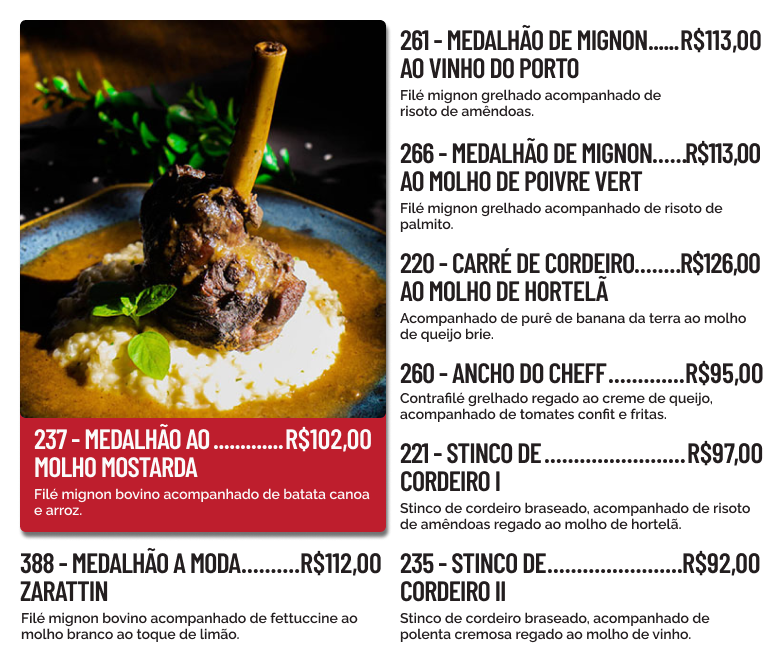
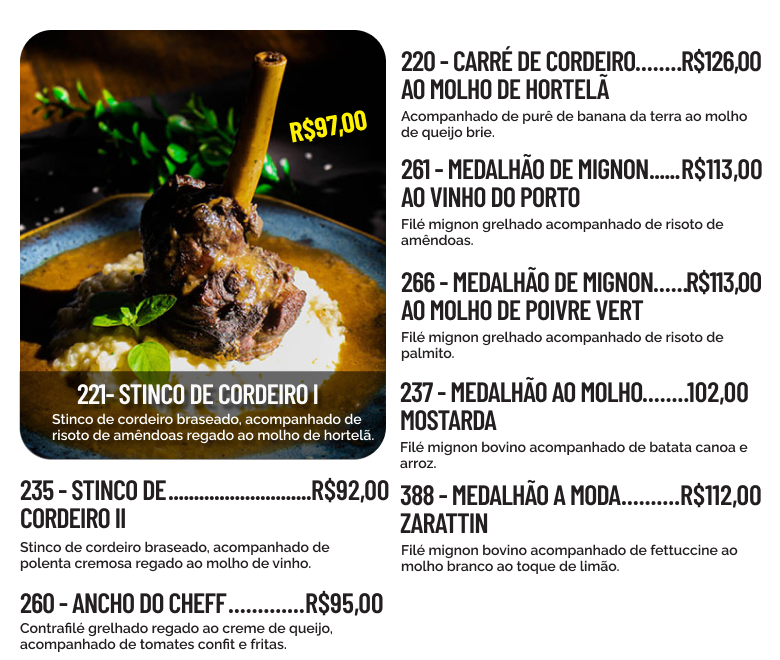
mudanças no cardapio

diff --git a/index.html b/index.html
@@ -202,7 +202,7 @@
                                 </div>
                             </div>
 
-                           <!--  <div class="card__container swiper-slide">
+                            <!--  <div class="card__container swiper-slide">
                                 <div class="card__image">
                                     <img src="assets/img/carousel/festival_camarao.jpg" alt="image" class="card__img"
                                         loading="lazy">
@@ -240,39 +240,52 @@
                 <img class="cardapio_img cardapio_img-2" data-aos="fade-left" data-aos-delay="200"
                     src="assets/img/prato-1.webp" alt="">
                 <div class="cardapio_texto">
-                    <p class="bold">209 - EISBEIN</p>
-                    <p>Joelho suíno à pururuca servido com batata e chucrute</p>
+                    <p class="bold">140 - SALMÃO A MODA ZARATIN</p>
+                    <p>Filé de salmão, acompanhado de fettuccine ao molho branco ao toque de limão</p>
 
-                    <p class="bold">140 - BACALHAU GOMES DE SÁ</p>
-                    <p>Lascas de bacalhau salteadas no azeite com batata, azeitonas, cebola e ovos</p>
-
-                    <p class="bold">148 - BIFE ANCHO DO CHEFF</p>
-                    <p>Contra-ﬁlé grelhado regado ao creme de queijo, acompanhado de tomates conﬁt e fritas</p>
+                    <p class="bold">143 - BOVINO GRELHADO</p>
+                    <p>Filé mignon bovino acompanhado de panaché de legumes</p>
 
                     <p class="bold">144 - TILÁPIA</p>
                     <p>Filé de tilápia empanada e frita acompanhado de panaché de legumes</p>
 
-                    <p class="bold">155- PICANHA SUÍNA</p>
-                    <p>Picanha suína grelhada regado ao molho de mostarda acompanhada de batata rústica</p>
-
-                    <p class="bold">143 - BOVINO GRELHADO</p>
-                    <p>Filé mignon bovino acompanhado de panaché de legumes</p>
-                </div>
-                <div class="cardapio_texto alinhar_direita desliza-direita">
                     <p class="bold">149 - BIFE ANCHO</p>
-                    <p>Contraﬁlé grelhado acompanhado de batatas rústicas</p>
+                    <p>Contrafilé grelhado acompanhado de fettuccine (ao sugo ou pesto) </p>
 
-                    <p class="bold">147- COSTELINHA BARBECUE</p>
+                    <p class="bold">147 - COSTELINHA BARBECUE</p>
                     <p>Costeletas suínas ao molho barbecue acompanhadas de batatas fritas</p>
 
-                    <p class="bold">102- TILÁPIA AO MOLHO DE CAMARÃO</p>
+                    <p class="bold">145 - PARMEGIANA BOVINO</p>
+                    <p>Filé mignon empanado, queijo, regado ao molho de tomate fresco e fritas</p>
+
+                    <p class="bold">195 - PARMEGIANA DE FRANGO</p>
+                    <p>Filé de frango empanado, queijo, regado ao molho de tomate fresco e fritas</p>
+
+                </div>
+                <div class="cardapio_texto alinhar_direita desliza-direita">
+
+                    <p class="bold">102 - TILÁPIA AO MOLHO DE CAMARÃO</p>
                     <p>Filé de tilápia empanada e frita regada ao molho de camarão acompanhada de purê de batata</p>
 
-                    <p class="bold">158- FRANGO CROCANTE</p>
-                    <p>Filete frango empanado e frito acompanhado de purê de batata</p>
+                    <p class="bold">209 - EISBEIN</p>
+                    <p>Joelho suíno à pururuca servido com batata e chucrute</p>
 
-                    <p class="bold">195- PARMEGIANA DE FRANGO</p>
-                    <p>Filé de frango empanado, queijo, regado ao m olho de tomate fresco e fritas</p>
+
+                    <p class="bold">158 - FRANGO A MILANESA</p>
+                    <p>Filé de frango à milanesa acompanhado fetuccine ao sugo</p>
+
+                    <p class="bold">155 - STROGONOFF DE MIGNON</p>
+                    <p>Acompanha arroz e batata palha</p>
+
+                    <p class="bold">148 - BIFE ANCHO DO CHEFF</p>
+                    <p>Contraﬁlé grelhado regado ao creme de queijo, acompanhado de tomates conﬁt e fritas</p>
+
+                    <p class="bold">146 - KASSLER COM SALSICHA ALEMÃ </p>
+                    <p>Bisteca suína, servida com 1 salsicha vermelha acompanhado de purê de maçã </p>
+
+                    <p class="bold">198 - TILÁPIA GRELHADA</p>
+                    <p>Filé de tilápia grelhada acompanhada de purê de mandioquinha</p>
+
                 </div>
                 <a href="cardapio/index.html" target="_blank" class="btn btn_cardapio">
                     <img src="assets/img/icons/menu.png" alt="icone menu">

diff --git a/cardapio/index.html b/cardapio/index.html
@@ -125,7 +125,9 @@
             </div>
             <img src="assets/img/risotos.webp" alt="menu risotos">
         </section>
-        <section class="porcoes-extras menu-section" id="porcoes-extras">
+      
+      
+         <section class="porcoes-extras menu-section" id="porcoes-extras">
             <div class="title bg-vermelho">
                 <h2>Porções extras</h2>
             </div>

diff --git a/assets/css/styles.css b/assets/css/styles.css
@@ -689,7 +689,7 @@ article {
 }
 
 .cardapio_container {
-    background: url('../img/cardapio_bg.jpg') repeat center;
+    background: url('../img/cardapio-bg-1.webp') repeat center;
     padding: 2rem 1rem 2.5rem;
     display: flex;
     position: relative;
